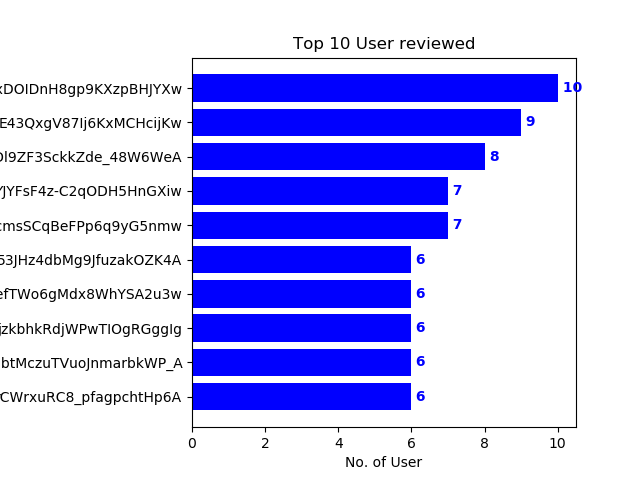
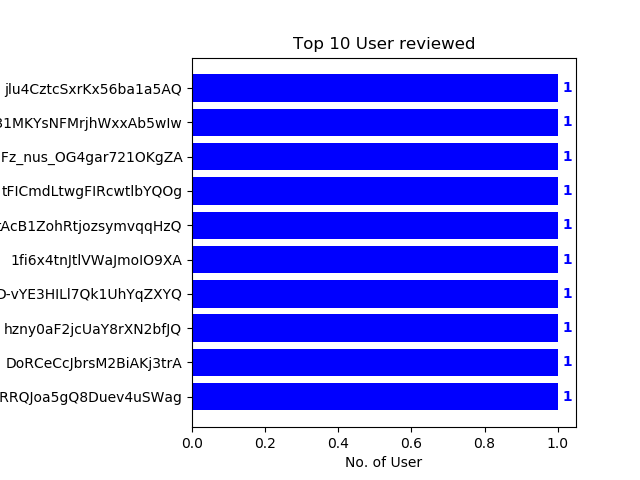
Updated Application and Formatting

diff --git a/SourceCode/data_analysis.py b/SourceCode/data_analysis.py
@@ -140,11 +140,6 @@ def process_review(text):
     del review['date']
     del review['review_id']
 
-    # {"review_id": "fdiNeiN_hoCxCMy2wTRW9g", "user_id": "w31MKYsNFMrjhWxxAb5wIw",
-    #  "business_id": "eU_713ec6fTGNO4BegRaww", "stars": 4.0, "useful": 0, "funny": 0, "cool": 0,
-    #  "text": "I'll be the first to admit that I was not excited about going to La Tavolta. Being a food snob, when a group of friends suggested we go for dinner I looked online at the menu and to me there was nothing special and it seemed overpriced.  Im also not big on ordering pasta when I go out. Alas, I was outnumbered. Thank goodness! I ordered the sea bass special. It was to die for. Cooked perfectly, seasoned perfectly, perfect portion. I can not say enough good things about this dish. When the server asked how it was he seemed very proud of the dish and said, \" doesn't she (the chef) do an incredible job?\" She does. \n\nMy hubby got the crab tortellini and also loved his. I heard \"mmmm this is so good\" from all around the table. Our waiter was super nice and even gave us free desserts because we were some of the last people in the restaurant. Service was very slow and the place was PACKED but we had our jugs of wine and a large group with good conversation so it didn't seem to bother anyone.\n\nSo-\n\nDo order the calamari and fried zucchini appetizers. Leave out the mussels. \n\nIf they have the sea bass special, I highly recommend it. The chicken parm and crab tortellini were also very good and very big. The chicken Romano was a bit bland. The house salads were teeny. \n\nDo make a reservation but still expect to wait for your food. Go with a large group of people and plan for it to be loud. Don't go with a date unless you're fighting and don't feel like hearing anything they have to say.  Ask to sit in the side room if it's available.",
-    #  "date": "2013-01-20 13:25:59"}
-
     sentence_tokenize_list = sent_tokenize(review["text"])
     del review['text']
     # Store result back into review
@@ -157,6 +152,7 @@ def process_review(text):
     neg=[]
     neu=[]
     posTagList = []
+
     for sentence in sentence_tokenize_list:
         word_list = word_tokenize(sentence)
         non_stemmed_words += word_list
@@ -222,7 +218,57 @@ def computeIndicativeness(allReviewsList, reviewListAdj):
             pw = allReviewsList[word] / nWords
             indicative_dict[word] = pw_r * math.log(pw_r / pw)
         indicativeProp.append(indicative_dict)
-        print('top 10 adj for ',i,'star review are: ', Counter(indicative_dict).most_common(10))
+        print("\n===========================================================")
+        print('Top 10 Indicative Adjectives for ',i,'star review by')
+        print(Counter(indicative_dict).most_common(10))
+        print("===========================================================\n")
+
+def nlpApplication(all_pos,all_neg,all_neu):
+    # Sentiment Analysis
+    all_pos_words = all_pos
+    all_neg_words = all_neg
+    all_neu_words = all_neu
+
+    allPosLower = [item.lower() for item in all_pos_words]
+    allNegLower = [item.lower() for item in all_neg_words]
+    allNeuLower = [item.lower() for item in all_neu_words]
+    sid = SentimentIntensityAnalyzer()
+    pos_word_list = []
+    neu_word_list = []
+    neg_word_list = []
+
+    for word in all_stemmed_words:
+        word = word.lower()
+        if (sid.polarity_scores(word)['compound'] >= 0.4) and (word in allPosLower):
+            pos_word_list.append(word)
+        elif (sid.polarity_scores(word)['compound']) <= -0.4 and (word in allNegLower):
+            neg_word_list.append(word)
+        else:
+            neu_word_list.append(word)
+
+    pos_frequency = Counter(pos_word_list).most_common()
+    neu_frequency = Counter(neu_word_list).most_common()
+    neg_frequency = Counter(neg_word_list).most_common()
+
+    pos_frequency = remove_stop_words(pos_frequency)
+    neu_frequency = remove_stop_words(neu_frequency)
+    neg_frequency = remove_stop_words(neg_frequency)
+
+    print("\n=====+====NLP APPLICATION: Sentiment analysis=============")
+    print("\nPositive words frequency")
+    print(len(pos_frequency))
+    for i in range(10):
+        print(pos_frequency[i])
+
+    print("\nNeutral words frequency")
+    print(len(neu_frequency))
+    for i in range(10):
+        print(neu_frequency[i])
+    print("\nNegative words frequency")
+    print(len(neg_frequency))
+    for i in range(10):
+        print(neg_frequency[i])
+    print("===========================================================\n")
 
 
 if __name__ == "__main__":
@@ -230,14 +276,6 @@ if __name__ == "__main__":
     for corpus in ["stopwords", "punkt", "averaged_perceptron_tagger"]:
         check_corpus(corpus)
     stop_words_list = stopwords.words("english") + list(string.punctuation) + stop_words_custom
-
-    # Load data
-    #print("Loading pickle...")
-    # try:
-    #     results, all_non_stemmed_words, all_stemmed_words,all_pos,all_neg,all_neu = pickle.load(open("./raw/save.p", "rb"))
-    #     print("Found pickle!")
-    # except FileNotFoundError:
-    #print("Data is not processed yet. Processing now...")
 
     data = []
     #file_name = './raw/reviewSamples20.json'
@@ -266,18 +304,51 @@ if __name__ == "__main__":
     pool.join()
     print("")  # print linebreak
 
-    # save in pickle
-    #pickle.dump((results, all_non_stemmed_words, all_stemmed_words,all_pos,all_neg,all_neu), open("./raw/save.p", "wb"))
-    # Data set Analysis
-    top_10_user_id = find_most_frequent(results, "user_id", 10)
-    print('\nuser_id')
-    for id, count in top_10_user_id:
-        print(id + ", " + str(count))
 
-    top_10_business_id = find_most_frequent(results, "business_id", 10)
-    print('\ntop_10_business_id')
-    for id, count in top_10_business_id:
-        print(id + ", " + str(count))
+    # Print 5 sample sentences (result from sentence segmentation)
+    random.seed(2004)  # seed to make random the same for consistency
+    n_samples = 5
+    print("\n===========================================================")
+    print("{} sampled sentences".format(n_samples))
+    i = 0
+    while i < 5:
+        sample_review = random.choice(results)
+        sample_sentence_list = sample_review["sentence_tokenize"]
+        sample_sentence = random.choice(sample_sentence_list)
+        if sample_sentence not in stop_words_list:  # sometimes sentence segmentation break "!" into a sentence
+            i += 1
+            print(sample_sentence)
+    print("===========================================================\n")
+
+    # Count words
+    non_stemmed_words_frequency = Counter(all_non_stemmed_words).most_common()
+    stemmed_words_frequency = Counter(all_stemmed_words).most_common()
+
+    # Remove Stop Words (defined on top)
+    non_stemmed_words_frequency = remove_stop_words(non_stemmed_words_frequency)
+    stemmed_words_frequency = remove_stop_words(stemmed_words_frequency)
+
+
+    print("\n===========================================================")
+    print("List the top-20 Non stemmed most frequent words")
+    print(Counter(non_stemmed_words_frequency).most_common(20))
+
+    print("\nList the top-20 stemmed most frequent words")
+    print(Counter(stemmed_words_frequency).most_common(20))
+    print("===========================================================\n")
+
+    # POS Tagging
+    n_samples = 5
+    print("\n===========================================================")
+    print("{} POS Tagging".format(n_samples))
+    for i in range(5):
+        sample_review = random.choice(results)
+        sample_sentence_list = sample_review["sentence_tokenize"]
+        sample_sentence = random.choice(sample_sentence_list)
+        word_tokens = word_tokenize(sample_sentence)
+        print(nltk.pos_tag(word_tokens))
+    print("===========================================================\n")
+
 
     #Partition Results into Stars
     df = pd.DataFrame(results)
@@ -297,117 +368,29 @@ if __name__ == "__main__":
         _StarReview = [subList for subList in l ]
         AdjList.append([item2 for subList in l for item in subList for item2 in item])
 
-        # Count Rating for 1 Star
+        # Count Rating for each Rating
         counts_dict = countAdj(AdjList[i-1])
-        #print("COUNT ADJ with Duplicates: ",counts_dict)
+        #Top 10 most frequent Adj for each Rating
+        print("\n===========================================================")
+        print(str(i),' star: Top 10 most frequent Adjectives for each Rating')
+        print(Counter(counts_dict).most_common(10))
+        print("===========================================================\n")
 
         _starDict = countObs(_StarReview)
         reviewListAdj.append(_starDict)
-        print(str(i)," star: ",_starDict)
+        #print(str(i)," star: ",_starDict)
         allReviewsList += Counter(_starDict)
 
 
-    print("ALL STAR: " ,allReviewsList)
-    countAdj([item for sublist in AdjList for item in sublist])
+    #print("ALL STAR: " ,allReviewsList)
+    #countAdj([item for sublist in AdjList for item in sublist])
     computeIndicativeness(allReviewsList, reviewListAdj)
 
 
-    #top_10_num_sentences.append(find_most_frequent(df[df['stars'] == i].to_dict(orient='records'), "num_sentences", 10))
-    #top_10_num_sentences.append(find_most_frequent(df[df['stars'] == i].to_dict(orient='records'), "num_sentences", 10))
-    top_10_num_non_stemmed_words = find_most_frequent(results, "num_non_stemmed_words", 10)
-    top_10_num_stemmed_words = find_most_frequent(results, "num_stemmed_words", 10)
-
-    # Print 5 sample sentences (result from sentence segmentation)
-    random.seed(2004)  # seed to make random the same for consistency
-    n_samples = 5
-    print("\n{} sampled sentences".format(n_samples))
-    i = 0
-    while i < 5:
-        sample_review = random.choice(results)
-        sample_sentence_list = sample_review["sentence_tokenize"]
-        sample_sentence = random.choice(sample_sentence_list)
-        if sample_sentence not in stop_words_list:  # sometimes sentence segmentation break "!" into a sentence
-            i += 1
-            print(sample_sentence)
-
-    # Count words
-    non_stemmed_words_frequency = Counter(all_non_stemmed_words).most_common()
-    stemmed_words_frequency = Counter(all_stemmed_words).most_common()
-
-    # Remove Stop Words (defined on top)
-    non_stemmed_words_frequency = remove_stop_words(non_stemmed_words_frequency)
-    stemmed_words_frequency = remove_stop_words(stemmed_words_frequency)
-
-    #Sentiment Analysis
-    all_pos_words= all_pos
-    all_neg_words= all_neg
-    all_neu_words= all_neu
-
-    allPosLower = [item.lower() for item in all_pos_words]
-    allNegLower = [item.lower() for item in all_neg_words]
-    allNeuLower = [item.lower() for item in all_neu_words]
-    sid = SentimentIntensityAnalyzer()
-    pos_word_list=[]
-    neu_word_list=[]
-    neg_word_list=[]
-
-    for word in all_stemmed_words:
-        word=word.lower()
-        if (sid.polarity_scores(word)['compound'] >= 0.4) and (word in allPosLower):
-            pos_word_list.append(word)
-        elif (sid.polarity_scores(word)['compound']) <= -0.4 and (word in allNegLower):
-            neg_word_list.append(word)
-        else:
-            neu_word_list.append(word)
-
-    pos_frequency = Counter(pos_word_list).most_common()
-    neu_frequency = Counter(neu_word_list).most_common()
-    neg_frequency = Counter(neg_word_list).most_common()
-
-    pos_frequency = remove_stop_words(pos_frequency)
-    neu_frequency = remove_stop_words(neu_frequency)
-    neg_frequency = remove_stop_words(neg_frequency)
-
-    print("\nList the top-20 most frequent words")
-    print("\nnon_stemmed_words_frequency")
-    for i in range(10):
-        print(non_stemmed_words_frequency[i])
-    print("\nstemmed_words_frequency")
-    for i in range(10):
-        print(stemmed_words_frequency[i])
-
-    print("\npos_words_frequency")
-    print(len(pos_frequency))
-    for i in range(10):
-        print(pos_frequency[i])
-
-    print("\nneu_words_frequency")
-    print(len(neu_frequency))
-    for i in range(10):
-        print(neu_frequency[i])
-    print("\nneg_words_frequency")
-    print(len(neg_frequency))
-    for i in range(10):
-        print(neg_frequency[i])
-
-    # POS Tagging
-    n_samples = 5
-    print("\n{} POS Tagging".format(n_samples))
-    for i in range(5):
-        sample_review = random.choice(results)
-        sample_sentence_list = sample_review["sentence_tokenize"]
-        sample_sentence = random.choice(sample_sentence_list)
-        word_tokens = word_tokenize(sample_sentence)
-        print(nltk.pos_tag(word_tokens))
+    #NLP Application
+    nlpApplication(all_pos, all_neg, all_neu)
 
     # Plotting results
-    plot_frequency(top_10_user_id,
-                   "Top 10 User reviewed",
-                   "No. of User",
-                   "User ID",
-                   "v")
-
-
     for i in range(5):
         plot_frequency(top_10_num_sentences[i],
                        "Top 10 Number Sentences for " + str(i+1) +" star",
@@ -415,13 +398,14 @@ if __name__ == "__main__":
                        "No. of reviews",
                        "h")
 
-
+    top_10_num_non_stemmed_words = find_most_frequent(results, "num_non_stemmed_words", 10)
     plot_frequency(top_10_num_non_stemmed_words,
                    "Top 10 Number of Non-Stemmed Words (unrepeated)",
                    "No. of words",
                    "No. of reviews",
                    "h")
 
+    top_10_num_stemmed_words = find_most_frequent(results, "num_stemmed_words", 10)
     plot_frequency(top_10_num_stemmed_words,
                    "Top 10 Number of Stemmed Words (unrepeated)",
                    "No. of words",
